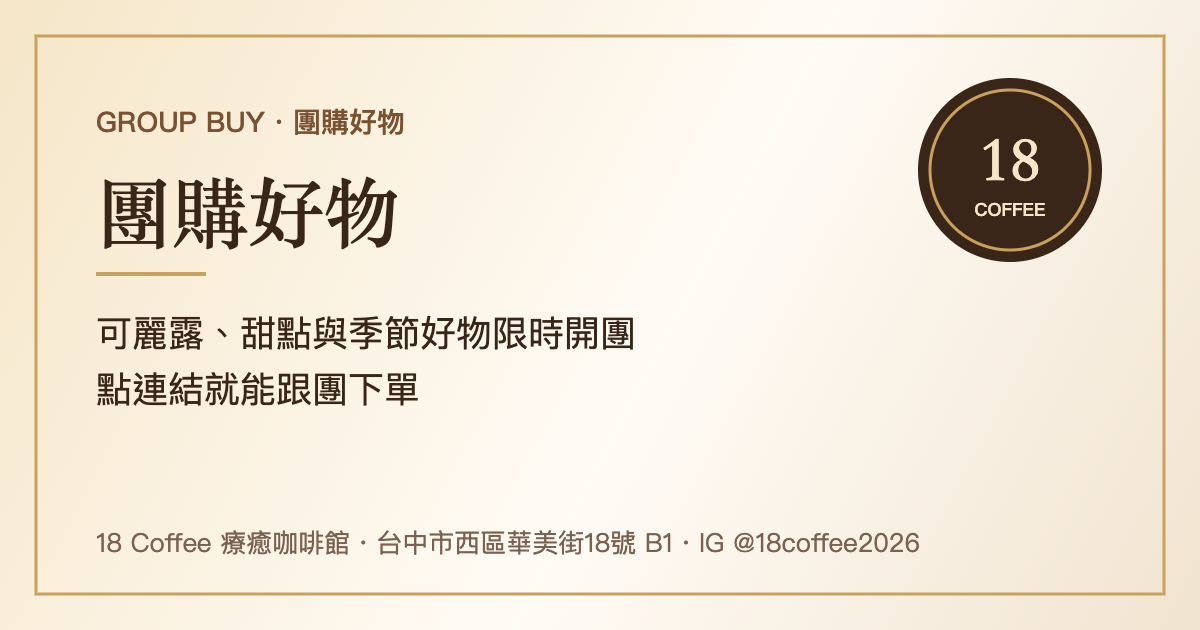
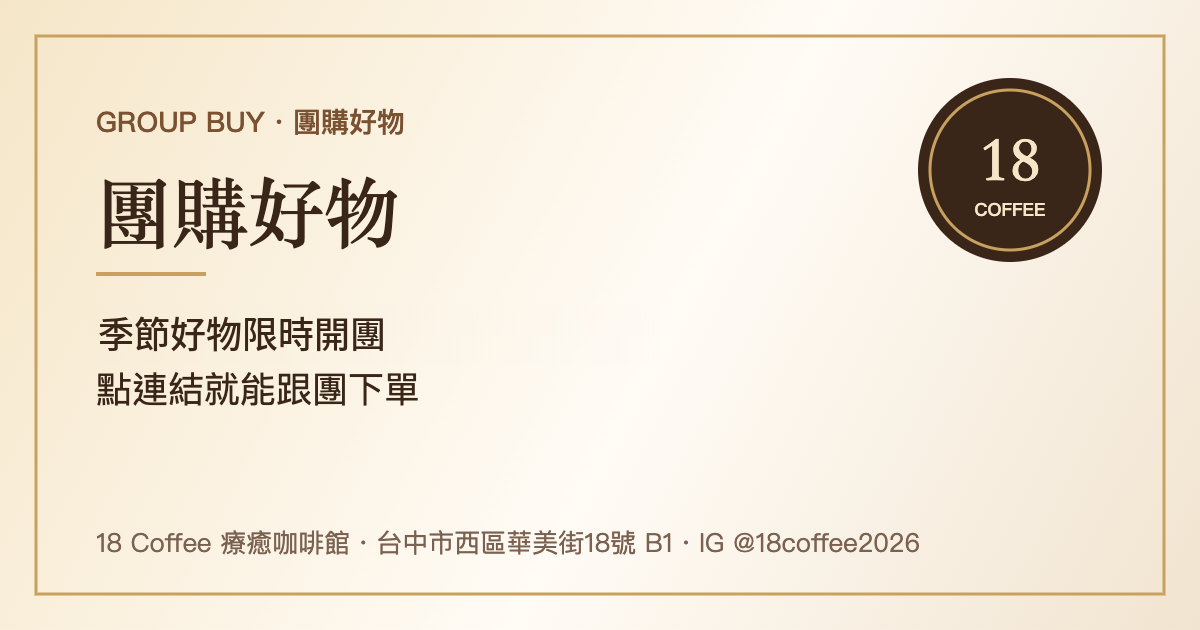
groupbuy：標題與分享圖改「團購好物｜季節好物限時開團」

Changed region(s): [[0.0617, 0.4825, 0.5242, 0.573]]

diff --git a/groupbuy.html b/groupbuy.html
@@ -6,13 +6,13 @@
 <link rel="canonical" href="https://www.18coffee.tw/groupbuy">
 <link rel="preconnect" href="https://script.google.com">
 <link rel="preconnect" href="https://script.googleusercontent.com">
-<title>團購好物｜可麗露・甜點限時開團｜18 Coffee 療癒咖啡館</title>
-<meta name="description" content="可麗露、甜點與季節好物限時開團，點連結就能跟團下單，台中西區華美街店面取貨。">
+<title>團購好物｜季節好物限時開團｜18 Coffee 療癒咖啡館</title>
+<meta name="description" content="季節好物限時開團，點連結就能跟團下單，台中西區華美街店面取貨。">
 <meta property="og:type" content="website">
 <meta property="og:site_name" content="18 Coffee 療癒咖啡館">
 <meta property="og:locale" content="zh_TW">
-<meta property="og:title" content="團購好物｜可麗露・甜點限時開團｜18 Coffee 療癒咖啡館">
-<meta property="og:description" content="可麗露、甜點與季節好物限時開團，點連結就能跟團下單，台中西區華美街店面取貨。">
+<meta property="og:title" content="團購好物｜季節好物限時開團｜18 Coffee 療癒咖啡館">
+<meta property="og:description" content="季節好物限時開團，點連結就能跟團下單，台中西區華美街店面取貨。">
 <meta property="og:url" content="https://www.18coffee.tw/groupbuy">
 <meta property="og:image" content="https://www.18coffee.tw/og-groupbuy.png">
 <meta property="og:image:width" content="1200">
@@ -44,7 +44,7 @@ iframe{position:fixed;inset:0;width:100%;height:100%;border:0}
 <div class="ld"><main>
 <div class="lda" aria-hidden="true"><i></i><i></i><i></i></div>
 <h1>團購好物</h1>
-<p><span class="nw">可麗露、甜點與季節好物</span><span class="nw">限時開團，</span><span class="nw">點連結就能跟團下單，</span><span class="nw">台中西區華美街</span><span class="nw">店面取貨。</span></p>
+<p><span class="nw">季節好物</span><span class="nw">限時開團，</span><span class="nw">點連結就能跟團下單，</span><span class="nw">台中西區華美街</span><span class="nw">店面取貨。</span></p>
 <p><span class="nw">台中市西區華美街18號 B1</span><span class="nw">（1F 米立飯糰店內進入）</span><br><span class="nw">營業時間 9:30–17:00，</span><span class="nw">週一、週五公休</span><br><span class="nw">電話 <a href="tel:+886972233849" style="color:inherit">0972-233-849</a></span></p>
 <nav><a href="/">首頁</a><a href="/shop">水晶選物</a><a href="/groupbuy">團購好物</a><a href="/events">課程與活動</a><a href="/venue">場地租借</a><a href="/share">共享創業</a><a href="/exhibition">藝術展覽</a></nav>
 <small>18 Coffee 載入中…</small>
